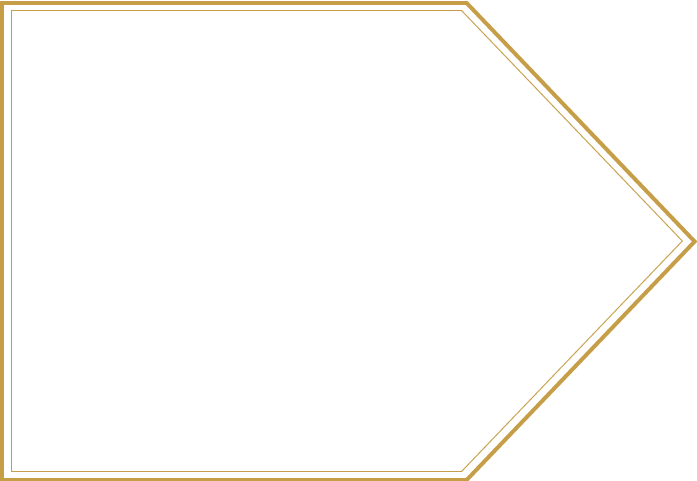
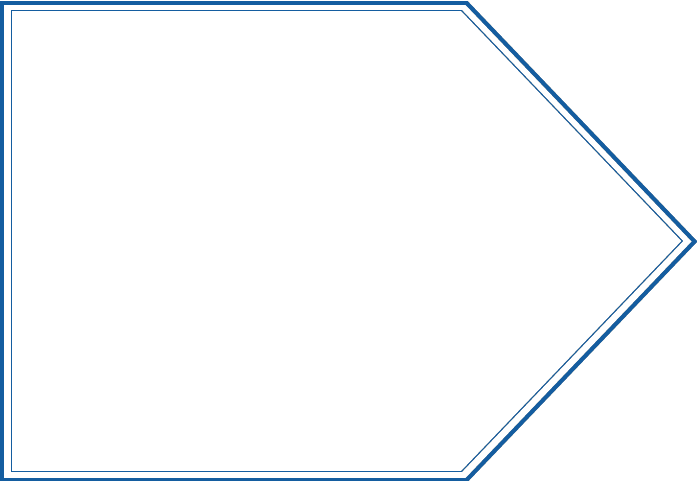
color

Changed region(s): [[0.0, 0.0, 1.0, 1.0], [0.7231, 0.0936, 0.7834, 0.1871]]

diff --git a/public/style/mystyle.css b/public/style/mystyle.css
@@ -43,7 +43,7 @@ Template: GARAGE
 }
 
 .socialicon>li>a:hover {
-	color: #C59E47;
+	color: #145da0;
 
 }
 
@@ -85,7 +85,7 @@ Template: GARAGE
 }
 
 .logreg>li>a:hover {
-	color: #C59E47;
+	color: #145da0;
 }
 
 .logreg .register {
@@ -187,14 +187,14 @@ Template: GARAGE
 #navbarontop>li>a:hover {
 	background-color: none !important;
 	background: none !important;
-	border-bottom: 2px solid #C59E47;
+	border-bottom: 2px solid #145da0;
 }
 
 
 #navbarontop>button {
 	background: none;
 	background-color: none;
-	border: 2px solid #C59E47;
+	border: 2px solid #145da0;
 	font-family: 'BebasNeue Regular';
 	margin-left: 60px;
 	font-size: 16.99px;
@@ -206,7 +206,7 @@ Template: GARAGE
 }
 
 #navbarontop>button:hover {
-	background-color: #C59E47;
+	background-color: #145da0;
 	color: #fff;
 }
 
@@ -231,12 +231,12 @@ Template: GARAGE
 #navbarontop .open>a:hover,
 #navbarontop .open>a:focus {
 	background-color: none !important;
-	border-color: #C59E47;
+	border-color: #145da0;
 }
 
 #navbarontop a:focus {
 	outline: none;
-	border-bottom: 2px solid #C59E47;
+	border-bottom: 2px solid #145da0;
 }
 
 .navbar-default .navbar-nav .open .dropdown-menu>li>a {
@@ -452,7 +452,7 @@ Template: GARAGE
 }
 
 .midle-nav {
-	background: rgba(248, 199, 45, .8);
+	background: #145DA0;
 	border: 0px;
 	position: absolute;
 	bottom: 0px;
@@ -525,7 +525,7 @@ Template: GARAGE
 }
 
 .navbarborder>li>a:hover {
-	color: #F8C72D !important;
+	color: #2E8BC0 !important;
 	background-color: #fff !important;
 
 }
@@ -640,7 +640,7 @@ Template: GARAGE
 @media only screen and (min-width: 768px) and (max-width: 1365px) {
 	.midle-nav {
 		position: relative;
-		background: rgb(248, 199, 45);
+		background: #2E8BC0;
 		top: 0px;
 
 
@@ -753,7 +753,7 @@ Template: GARAGE
 @media screen and (max-width: 767px) {
 	#navbarmidle {
 		padding-left: 20px;
-		background: rgb(248, 199, 45);
+		background: #2E8BC0;
 	}
 
 	.navbarborder>li:last-child {
@@ -798,7 +798,7 @@ Template: GARAGE
 	.midle-nav {
 		position: relative;
 		top: 0px;
-		background: rgba(248, 199, 45, .9)
+		background: #2E8BC0
 	}
 
 	.navbarborder {
@@ -868,7 +868,7 @@ Template: GARAGE
 	font-size: 41px;
 	padding-top: 46px;
 	padding-bottom: 50px;
-	color: #020243;
+	color: #151f27;
 }
 
 .carstxt {
@@ -943,7 +943,7 @@ Template: GARAGE
 .featurecontant {
 	width: 85%;
 	height: auto;
-	border: 1px solid #C59E47;
+	border: 1px solid #145da0;
 	margin-top: 7%;
 
 	margin-right: auto;
@@ -971,7 +971,7 @@ Template: GARAGE
 .featurecontant>h2 {
 	font-family: "OpenSans Regular";
 	font-size: 12.41pt;
-	color: #020243;
+	color: #151f27;
 	text-align: center;
 	letter-spacing: 8px;
 	margin-top: 36%;
@@ -979,8 +979,8 @@ Template: GARAGE
 }
 
 .featurecontant>button {
-	background: #020243;
-	border: 1px solid #020243;
+	background: #151f27;
+	border: 1px solid #151f27;
 	font-family: "OpenSans Regular";
 	font-size: 19px;
 	color: #fff;
@@ -997,9 +997,9 @@ Template: GARAGE
 	-o-transition: all .3s ease-in;
 	-webkit-transition: all .3s ease-in;
 	transition: all .2s ease-in;
-	border: 1px solid #020243;
+	border: 1px solid #151f27;
 	background: none;
-	color: #020243;
+	color: #151f27;
 }
 
 
@@ -1042,10 +1042,10 @@ Template: GARAGE
 
 #readmore>button {
 	background: none;
-	border: 1px solid #020243;
+	border: 1px solid #151f27;
 	font-family: "OpenSans Regular";
 	font-size: 19px;
-	color: #020243;
+	color: #151f27;
 	letter-spacing: 5px;
 	width: 70%;
 	margin-left: 17%;
@@ -1055,7 +1055,7 @@ Template: GARAGE
 }
 
 #readmore>button:hover {
-	background: #020243;
+	background: #151f27;
 	color: #fff;
 	-moz-transition: all .2s ease-in;
 	-o-transition: all .2s ease-in;
@@ -1091,10 +1091,10 @@ Template: GARAGE
 
 #readmore2>button {
 	background: none;
-	border: 1px solid #020243;
+	border: 1px solid #151f27;
 	font-family: "OpenSans Regular";
 	font-size: 19px;
-	color: #020243;
+	color: #151f27;
 	letter-spacing: 5px;
 	width: 68%;
 	margin-left: 17%;
@@ -1104,7 +1104,7 @@ Template: GARAGE
 }
 
 #readmore2>button:hover {
-	background: #020243;
+	background: #151f27;
 	color: #fff;
 	-moz-transition: all .2s ease-in;
 	-o-transition: all .2s ease-in;
@@ -1149,7 +1149,7 @@ Template: GARAGE
 
 @media screen and (max-width: 651px) {
 	.colborder1 {
-		border-top: 0px solid #BABABA;
+		border-top: 0px solid #bababa;
 		border-left: 0px solid #BABABA;
 		border-right: 0px solid #BABABA;
 		border-bottom: 0px;
@@ -1206,7 +1206,7 @@ Template: GARAGE
 	letter-spacing: 10px;
 	padding-top: 66px;
 	padding-bottom: 70px;
-	color: #020243;
+	color: #151f27;
 }
 
 .sortby {
@@ -1257,7 +1257,7 @@ Template: GARAGE
 	background-color: none;
 	border: 0px;
 	font-size: 15pt;
-	color: #F8C72D;
+	color: #2E8BC0;
 }
 
 .latest-navleft>li>button:hover {
@@ -1701,7 +1701,7 @@ Template: GARAGE
 
 .dotlogo {
 	font-size: 12px;
-	color: #C59E47;
+	color: #145da0;
 	padding-right: 78px;
 	padding-left: 78px;
 }
@@ -1762,12 +1762,12 @@ Template: GARAGE
 	padding-left: 50%;
 	margin-left: -64px;
 	font-size: 20px;
-	color: #C59E47;
+	color: #145da0;
 
 }
 
 .bottomsocial>a {
-	color: #C59E47;
+	color: #145da0;
 	padding-right: 20px;
 }
 
@@ -1919,7 +1919,7 @@ Template: GARAGE
 }
 
 .atisda>a {
-	color: #d99735;
+	color: #2E8BC0;
 	border: 0px;
 }
 
@@ -1947,7 +1947,7 @@ Template: GARAGE
 	}
 
 	.footer>a:hover {
-		color: #F97906;
+		color: #2E8BC0;
 	}
 
 	.footer {
